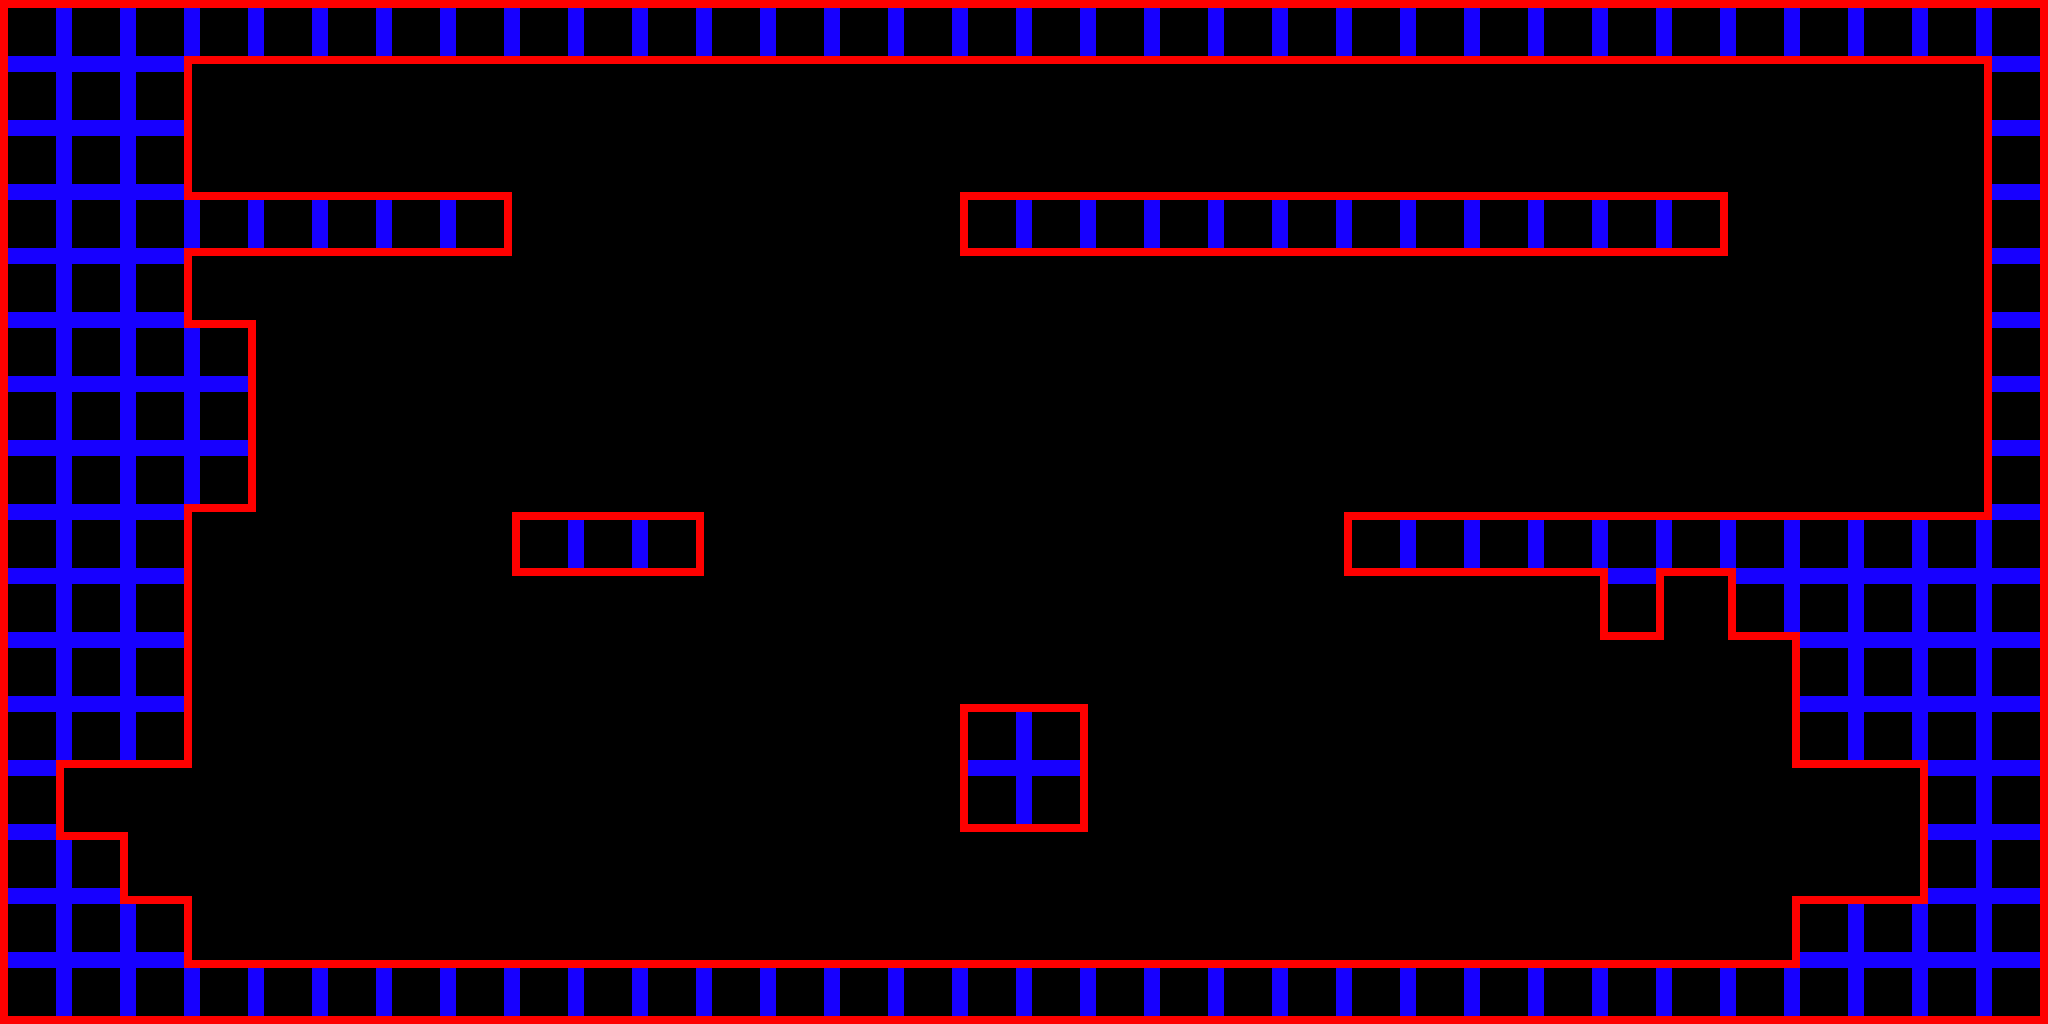
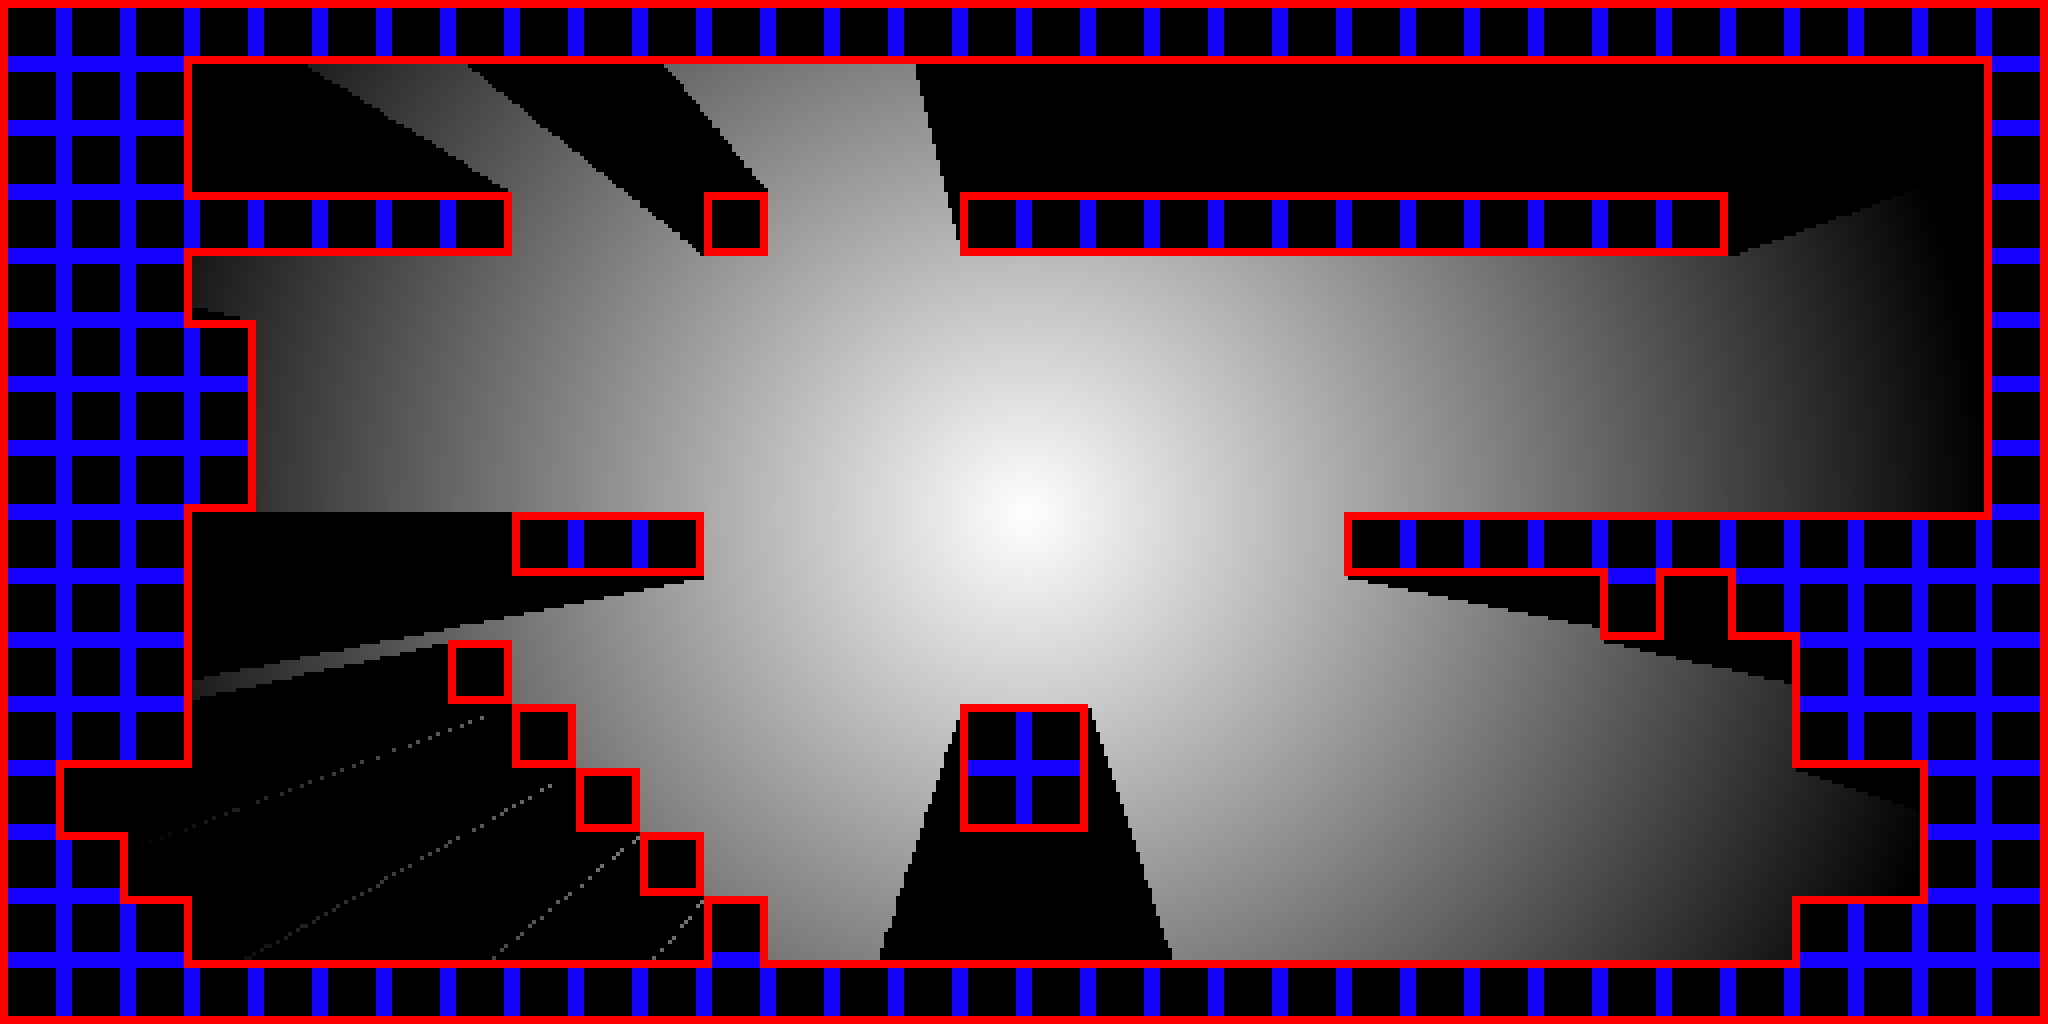
push changes to github

diff --git a/src/lib.rs b/src/lib.rs
@@ -216,7 +216,7 @@ impl Map {
         }
     }
 
-    pub fn save_to_file(&self, path: &str) {
+    pub fn save(&self, path: &str) {
         let mut encoder = png::Encoder::new(
             File::create(path).unwrap(),
             (self.width * 8 * self.sim_scale) as u32,
@@ -229,6 +229,36 @@ impl Map {
         writer.finish().unwrap();
     }
 
+    pub fn save_upscaled(&self, path: &str, scale: u64) {
+        let start_height = self.height * 8 * self.sim_scale;
+        let start_width = self.width * 8 * self.sim_scale;
+        let end_height = start_height * scale;
+        let end_width = start_width * scale;
+        let mut pixel_buffer: Vec<u8> = vec![0; (end_height * end_width * 3) as usize];
+        for y in 0..end_height {
+            for x in 0..end_width {
+                let source_x = x / scale;
+                let source_y = y / scale;
+                let source_index = (source_y * start_width + source_x) * 3;
+                let dest_index = (y * end_width + x) * 3;
+                pixel_buffer[dest_index as usize] = self.pixel_buffer[source_index as usize];
+                pixel_buffer[dest_index as usize + 1] =
+                    self.pixel_buffer[source_index as usize + 1];
+                pixel_buffer[dest_index as usize + 2] =
+                    self.pixel_buffer[source_index as usize + 2];
+            }
+        }
+        let mut encoder = png::Encoder::new(
+            File::create(path).unwrap(),
+            (end_width) as u32,
+            (end_height) as u32,
+        );
+        encoder.set_color(png::ColorType::Rgb);
+        encoder.set_depth(png::BitDepth::Eight);
+        let mut writer = encoder.write_header().unwrap();
+        writer.write_image_data(&pixel_buffer).unwrap();
+        writer.finish().unwrap();
+    }
     #[inline]
     fn is_within_square(&self, point: &Point) -> bool {
         let grid_x = (point.x) as usize;

diff --git a/src/main.rs b/src/main.rs
@@ -2,7 +2,7 @@ use shader_test::{Color, Light, Map, Point};
 
 static WIDTH: u64 = 32;
 static HEIGHT: u64 = 16;
-static SCALE: u64 = 8;
+static SCALE: u64 = 2;
 
 fn main() {
     let mut map = Map::new(
@@ -16,25 +16,27 @@ fn main() {
     map.squares_from_file("map.txt".to_string());
 
     // add lights
-    // map.add_light(Light {
-    //     position: Point { x: 16.0, y: 8.0 },
-    //     color: Color {
-    //         r: 255,
-    //         g: 255,
-    //         b: 255,
-    //         a: 255,
-    //     },
-    //     intensity: 10.0,
-    //     angle: 0.0,
-    //     fov: 90.0,
-    // });
+    map.add_light(Light {
+        position: Point { x: 16.0, y: 8.0 },
+        color: Color {
+            r: 255,
+            g: 255,
+            b: 255,
+            a: 255,
+        },
+        intensity: 15.0,
+        angle: 0.0,
+        fov: 90.0,
+    });
 
     // Render the scene with ray tracing
     println!("Rendering...");
     map.render();
 
     println!("Saving to output.png...");
-    map.save_to_file("output2.png");
+    map.save("output.png");
+    println!("Saving to output2.png...");
+    // map.save_upscaled("output2.png", 8 / SCALE);
 
     println!("Done!");
 }
